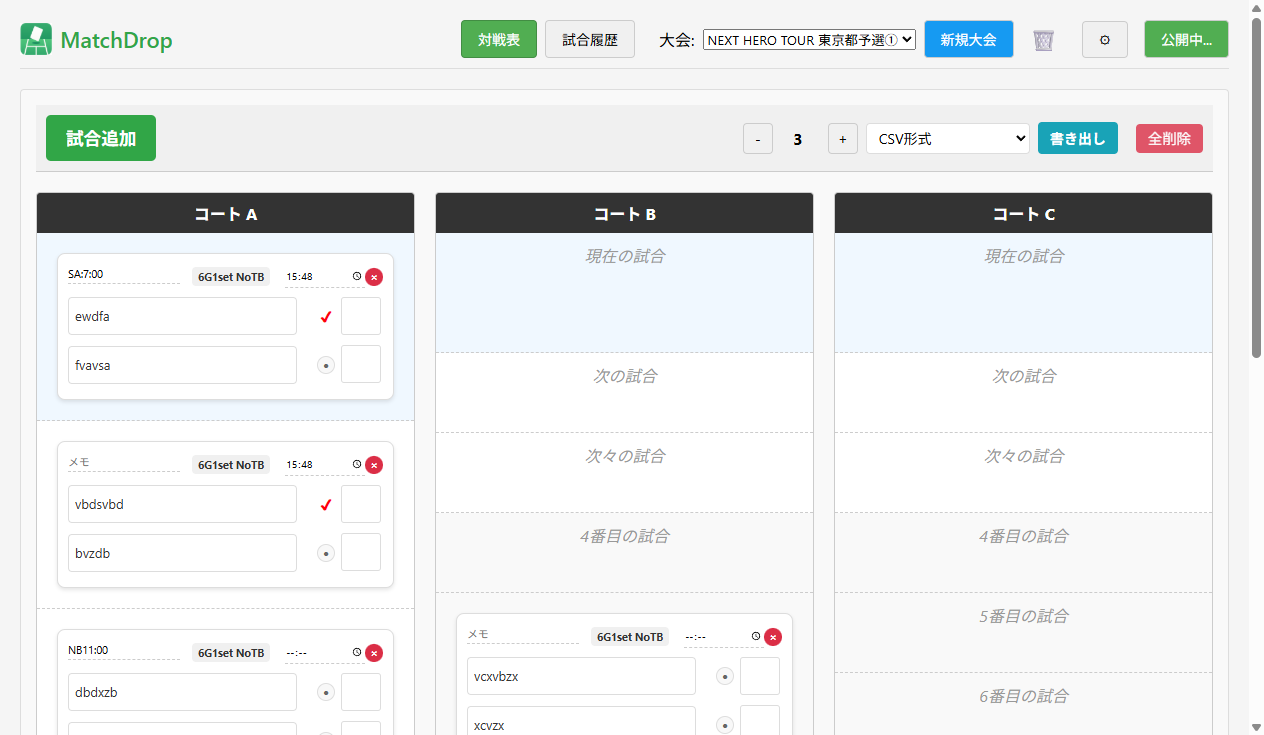
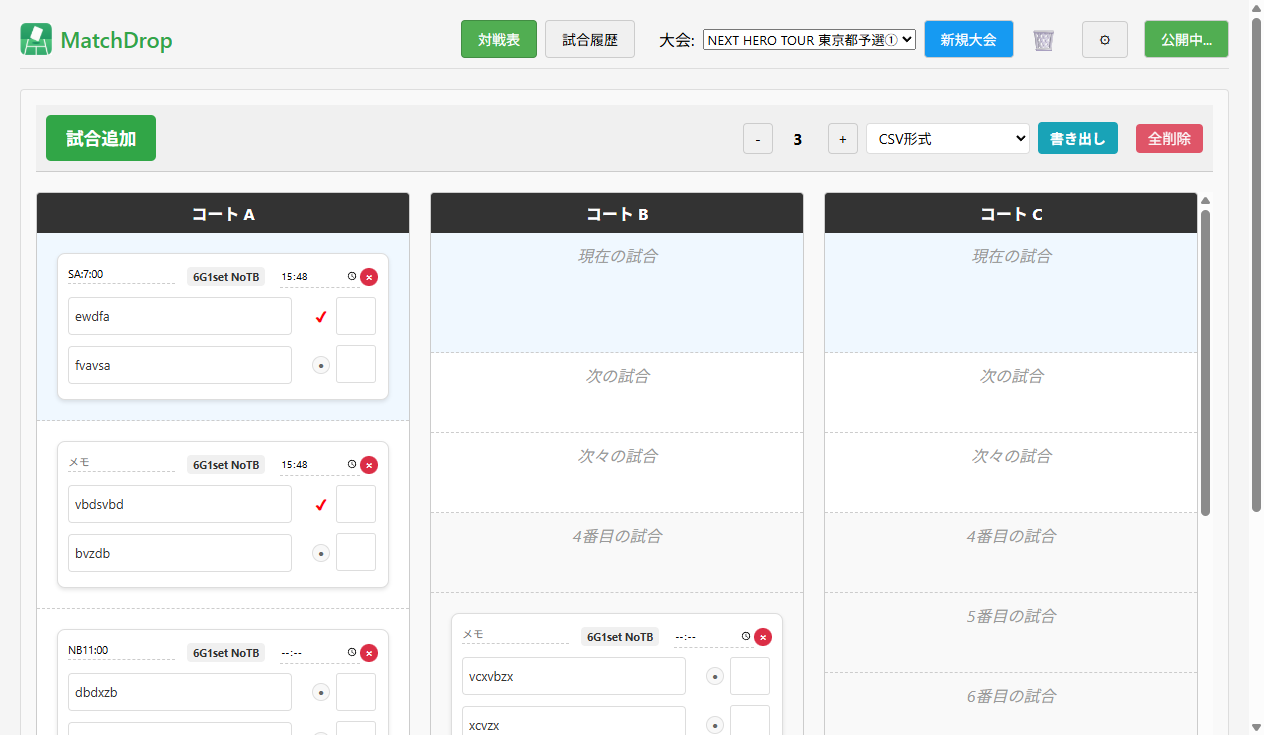
auto: deploy static site 2025-07-22T08:12:31.430Z

diff --git a/dist-web/src/css/styles.css b/dist-web/src/css/styles.css
@@ -86,6 +86,22 @@ button.active {
   grid-template-columns: repeat(auto-fill, minmax(300px, 1fr));
   gap: 20px;
   margin-top: 20px;
+  max-height: 80vh;
+  overflow-y: auto;
+}
+
+/* 親コンテナにも高さ制限とスクロールを追加（必要に応じて） */
+.board-container, .main-board-area {
+  max-height: 85vh;
+  overflow-y: auto;
+  min-height: 400px;
+  /* 必要ならpaddingや背景色も追加 */
+}
+
+@media (max-width: 700px) {
+  .court-grid, .board-container, .main-board-area {
+    max-height: 70vh;
+  }
 }
 
 .history-court-grid {

diff --git a/src/css/styles.css b/src/css/styles.css
@@ -86,6 +86,22 @@ button.active {
   grid-template-columns: repeat(auto-fill, minmax(300px, 1fr));
   gap: 20px;
   margin-top: 20px;
+  max-height: 80vh;
+  overflow-y: auto;
+}
+
+/* 親コンテナにも高さ制限とスクロールを追加（必要に応じて） */
+.board-container, .main-board-area {
+  max-height: 85vh;
+  overflow-y: auto;
+  min-height: 400px;
+  /* 必要ならpaddingや背景色も追加 */
+}
+
+@media (max-width: 700px) {
+  .court-grid, .board-container, .main-board-area {
+    max-height: 70vh;
+  }
 }
 
 .history-court-grid {
